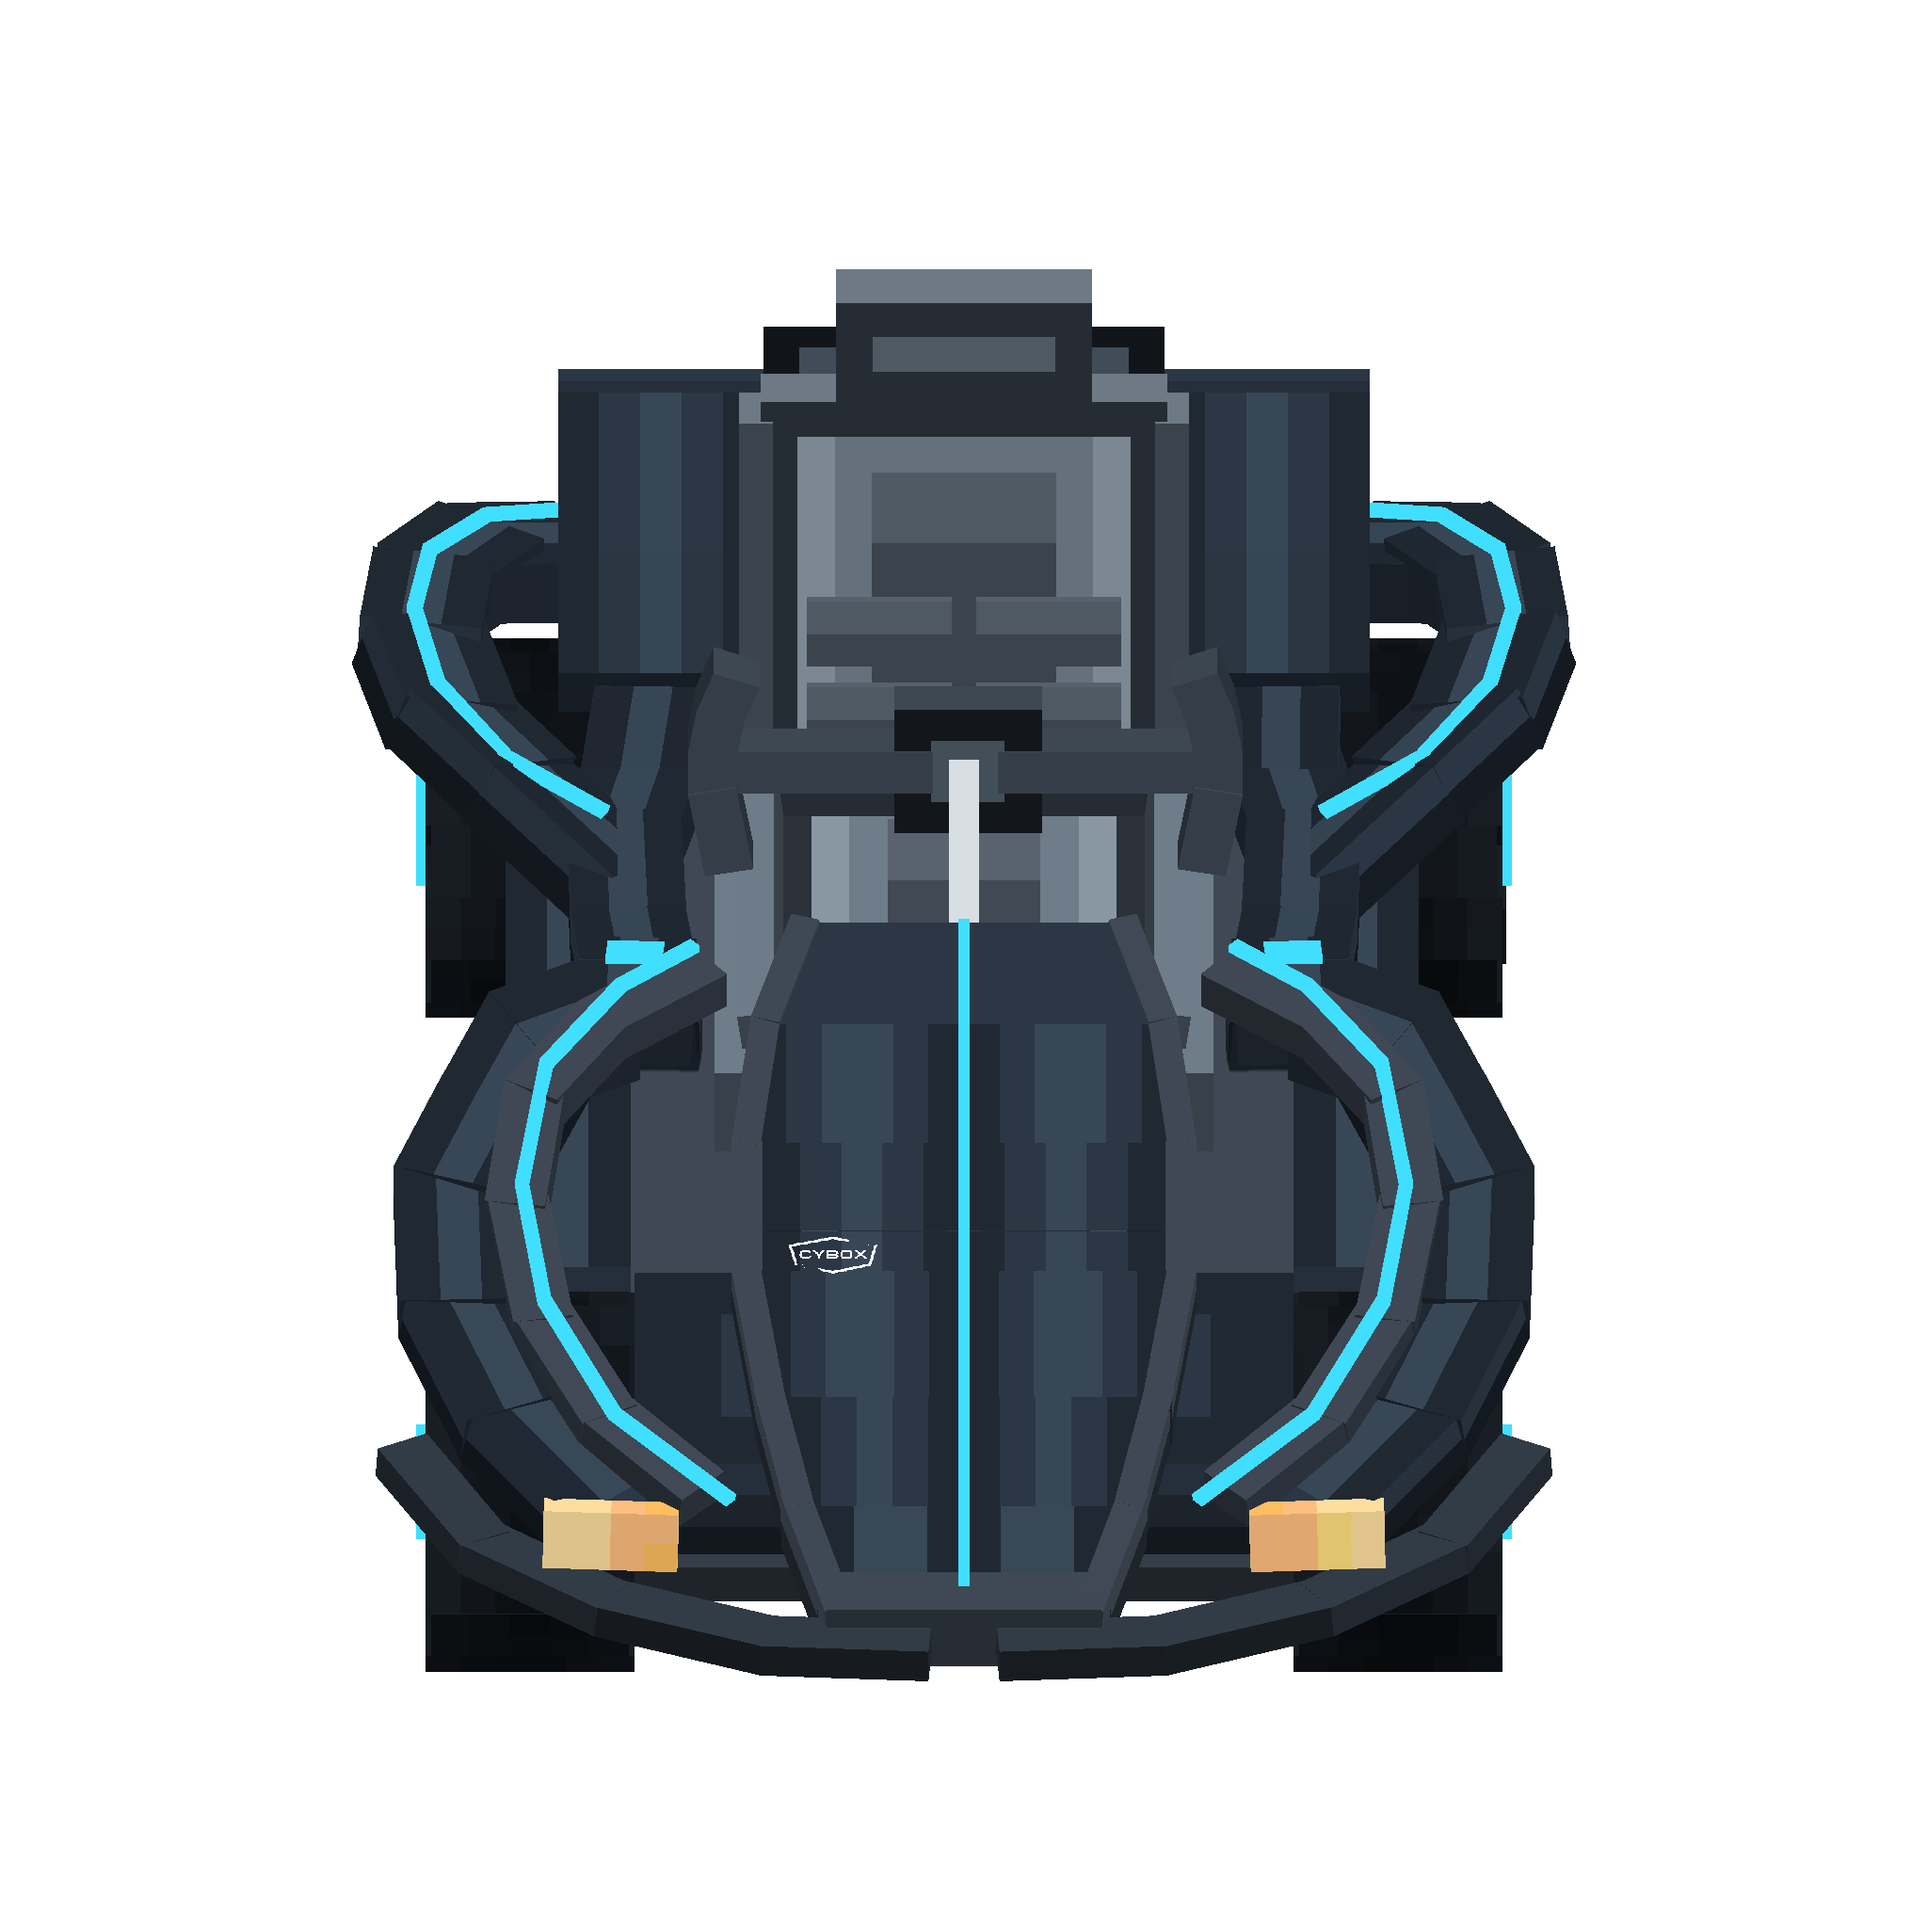
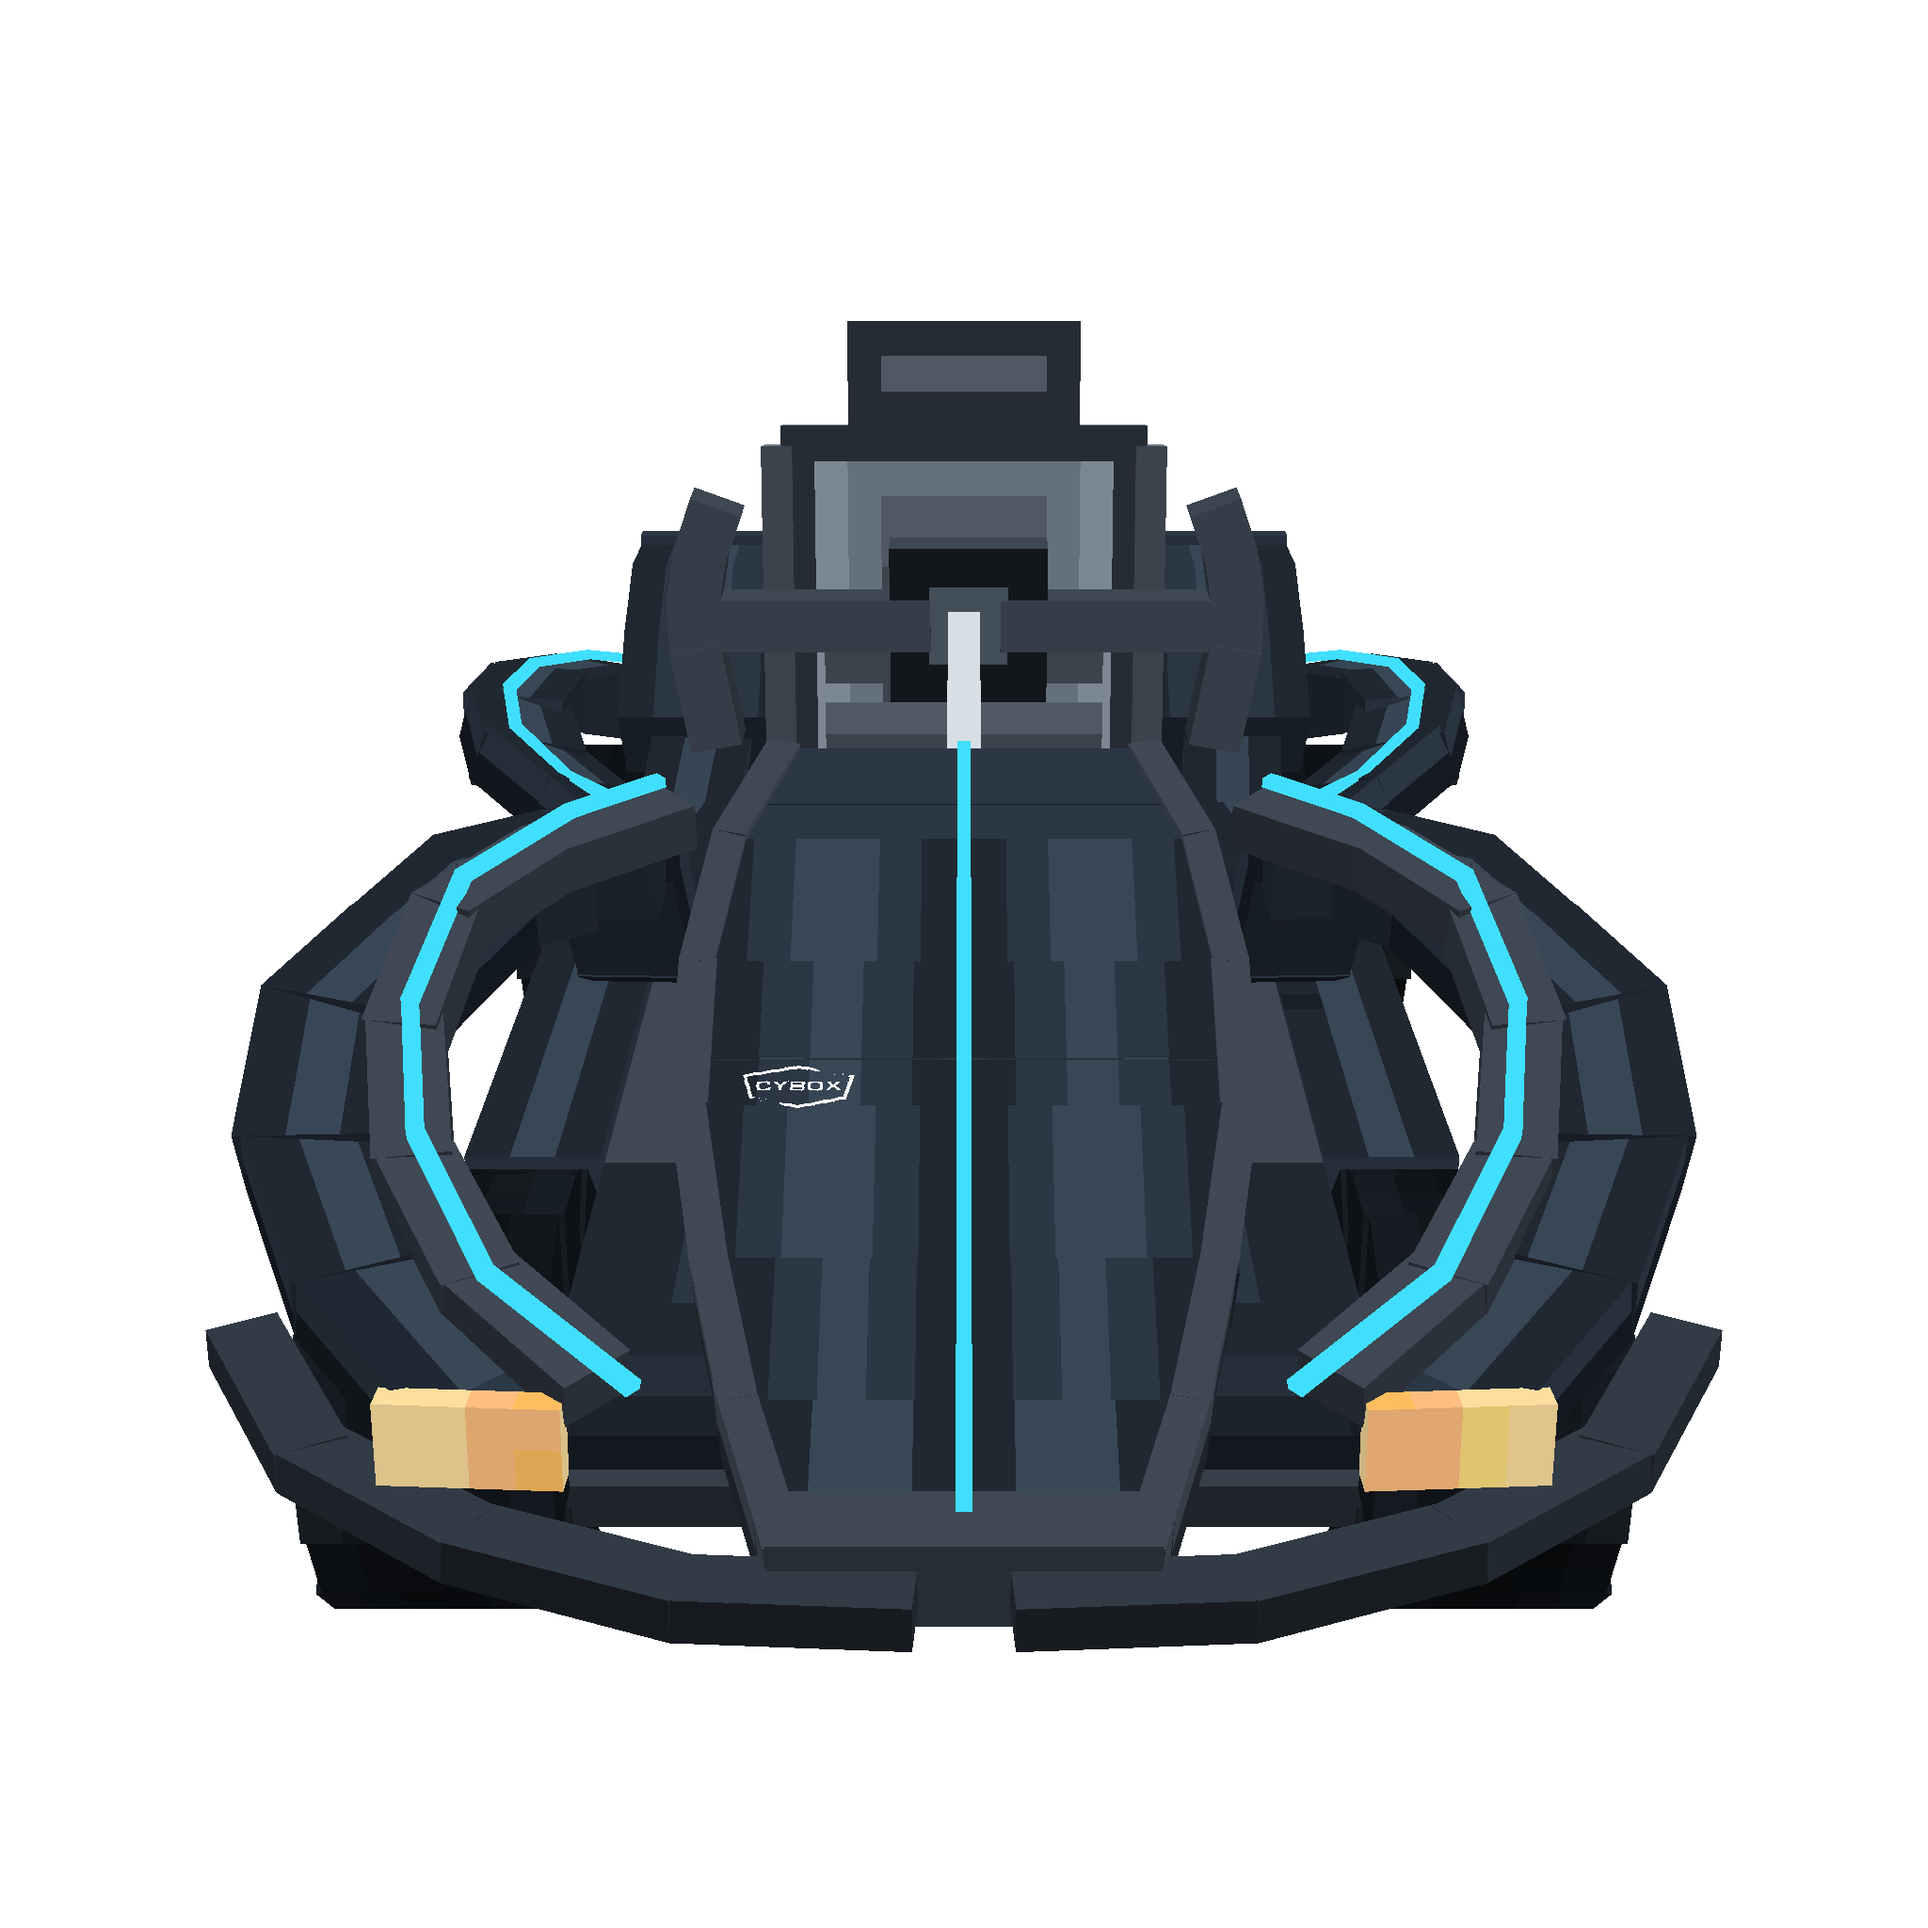
[design] 전체 카트를 유지하고 앞부분을 강조한 아이콘 구도 조정

Changed region(s): [[0.0938, 0.125, 0.9062, 0.875]]

diff --git a/Design/app-icon/README.md b/Design/app-icon/README.md
@@ -2,7 +2,7 @@
 
 2026-10-14 · 디자인 · 결정 62 · 사용자 검토 대기
 
-핀치 로버의 대표 카트 `gospel` 앞모습으로 만든 아이콘이다. 바탕화면의 `1.png`·`2.png`를 구도 참고로 쓰고, `gospel.bbmodel` 원본을 직접 렌더링했다. 검정 도색의 짙은 차체, 시안 라인, 앞 범퍼, 좌석과 핸들을 유지했다. AI 이미지 생성은 쓰지 않았다.
+핀치 로버의 대표 카트 `gospel` 앞모습으로 만든 아이콘이다. 바탕화면의 `1.png`·`2.png`를 구도 참고로 쓰고, `gospel.bbmodel` 원본을 직접 렌더링했다. 검정 도색의 짙은 차체, 시안 라인, 앞 범퍼, 좌석과 핸들을 유지했다. 사용자 피드백에 따라 전체 카트를 유지하며 앞부분이 더 크게 보이는 낮은 정면 원근 구도로 바꿨다. 앞부분만 잘라 쓰거나 뒤쪽 부품을 제외하지 않는다. AI 이미지 생성은 쓰지 않았다.
 
 ## 전달 파일
 
@@ -31,7 +31,7 @@
 
 앞뒤를 같은 그림으로 복제하지 않았다. 모델 부품을 나눠 깊이 버퍼로 가림을 계산했다. Middle에는 Front 뒤에 가려지는 차체도 있어 작은 시차 이동 때 빈틈이 드러나는 것을 줄인다. 레이어별 시스템 이동과 광택은 Xcode·Vision Pro에서 최종 확인해야 한다.
 
-카메라는 정면에서 위로 33°인 직교 구도다. 원형 마스크 안의 최대 반경은 약 472 px이며 가장자리 여유는 약 40 px다. 이 값은 로컬 합성 이미지 기준이며 시스템 안전 영역 전체를 보증하는 값은 아니다.
+카메라는 정면에서 위로 25°인 원근 구도다. 모델 유닛 기준 목표점은 `(0, 9, −14)`, 거리는 68이다. 앞 보닛·범퍼가 좌석·뒤쪽 차체보다 가깝고 크게 보인다. 모델의 큐브 239개를 모두 렌더링한다. 원형 마스크 안의 최대 반경은 약 480 px이며 가장자리 여유는 약 32 px다. 이 값은 로컬 합성 이미지 기준이며 시스템 안전 영역 전체를 보증하는 값은 아니다.
 
 배경은 `Design/style-guide.md`의 `ui-rim`(`#223A60`), `ui-night`(`#000918`), `ui-sky`(`#1DB8E6`)를 쓴다. 차체 색은 사용자 원본의 `gospel_black.png`에서 가져왔다. 추가 문구·손 그림·트랙 장식은 넣지 않았다.
 
@@ -41,7 +41,7 @@
 - `source/reference_01.png`, `source/reference_02.png`: 바탕화면 `1.png`·`2.png`의 바이트 동일 사본.
 - `source/gospel_black.png`: bbmodel 내장 PNG를 그대로 추출한 파일.
 - `source/background.svg`: 배경 벡터 원본.
-- `composition.json`: 카메라 각도, 배치 크기, 배경 색과 레이어 분할 기준.
+- `composition.json`: 원근 카메라 각도·거리·목표점, 전체 카트 배치 크기, 배경 색과 레이어 분할 기준.
 - `build.mjs`: Node.js와 sharp를 사용하는 렌더·레이어·카탈로그·미리보기 생성기.
 - `manifest.sha256`: 전달 파일의 SHA-256 목록. 재생성할 때 함께 갱신한다. 폴더 안 텍스트는 LF로 고정하고 bbmodel은 Git 줄바꿈 변환도 하지 않아 체크아웃 뒤 바이트가 바뀌는 것을 막는다.
 

diff --git a/Docs/decisions.md b/Docs/decisions.md
@@ -574,7 +574,7 @@
 - **날짜**: 2026-10-14
 - **배경**: 사용자 요청 — 앱의 대표 카트 `gospel` 앞모습을 바탕화면 `1.png`·`2.png`와 `gospel.bbmodel` 원본으로 아이콘에 사용한다. 결정 59·61의 정식 아이콘 디자인 작업이다.
 - **산출물**: `Design/app-icon/visionos/AppIcon.solidimagestack/`(배경·뒤쪽 차체·앞쪽 차체 3층, 각 1024 px), `Design/app-icon/ios/AppIcon.appiconset/`(1024 px RGB). `preview.png`·마스터·배경 SVG·구도 설정·재생성 도구·README를 함께 준비했다.
-- **방식**: 원본 bbmodel을 직접 렌더링했다. 검정 도색과 시안 라인, 정면 실루엣을 유지한다. 카메라는 위로 33°인 정면 구도. 배경은 기존 스타일 가이드의 `ui-rim`·`ui-night`·`ui-sky`. 원본 모델·UV·텍스처는 수정하지 않았다. AI 이미지 생성은 쓰지 않았다.
+- **방식**: 원본 bbmodel을 직접 렌더링했다. 검정 도색과 시안 라인, 정면 실루엣을 유지한다. 사용자 피드백에 따라 카트 전체를 유지하며 앞부분이 더 크게 보이는 위로 25°인 정면 원근 구도로 바꿨다. 앞부분만 자르거나 뒤쪽 부품을 렌더에서 빼지 않는다. 배경은 기존 스타일 가이드의 `ui-rim`·`ui-night`·`ui-sky`. 원본 모델·UV·텍스처는 수정하지 않았다. AI 이미지 생성은 쓰지 않았다.
 - **확인**: 입력 사본 SHA-256 일치, 1024 px·sRGB·iOS/Back 알파 없음·Middle/Front 투명 배경, 원형 마스크 밖 차체 픽셀 0, 작은 크기·레이어 미리보기 확인. 자세한 수치는 `Design/app-icon/validation.json`.
 - **상태**: 디자인 검토 대기. 앱의 기존 자리표시자 교체, Xcode 컴파일·실기기 홈 화면 확인은 테크 후속 작업이다. GitHub 게시·새 Issue는 아직 없다.
 - **영향받는 절**: `Design/app-icon/`(신규), 디자인 PRD 15장 앱 아이콘 전달 항목
